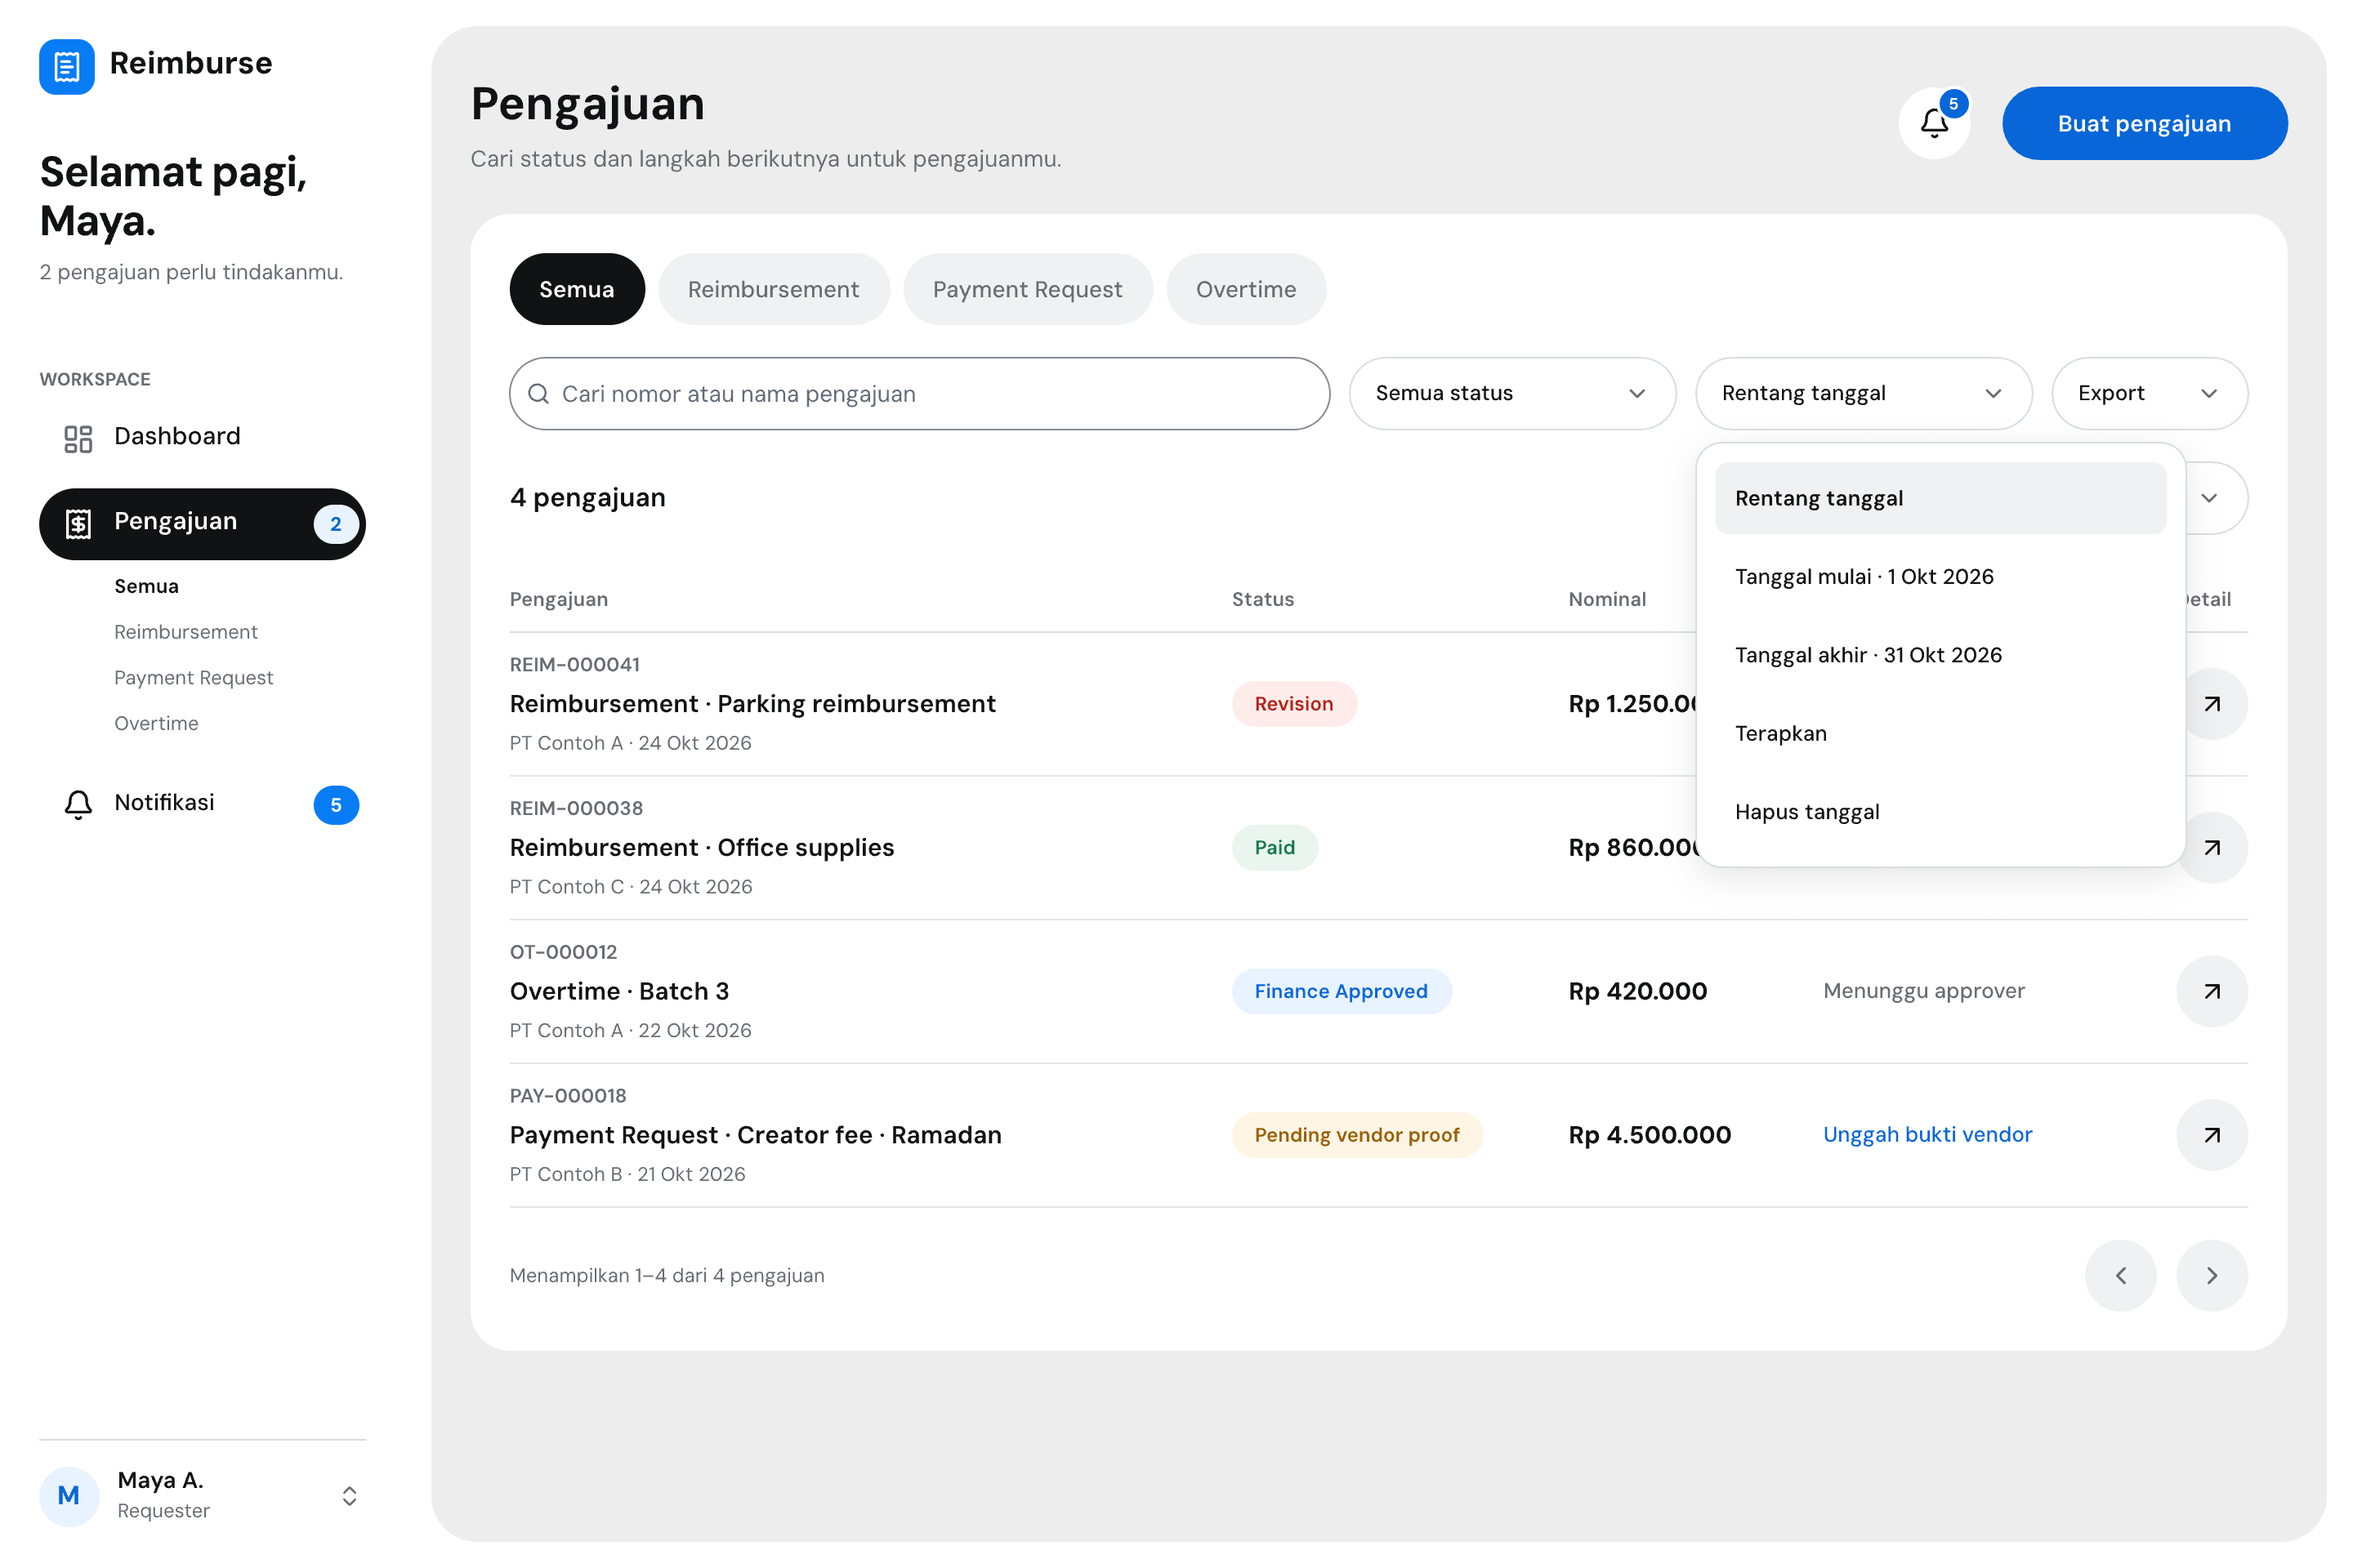
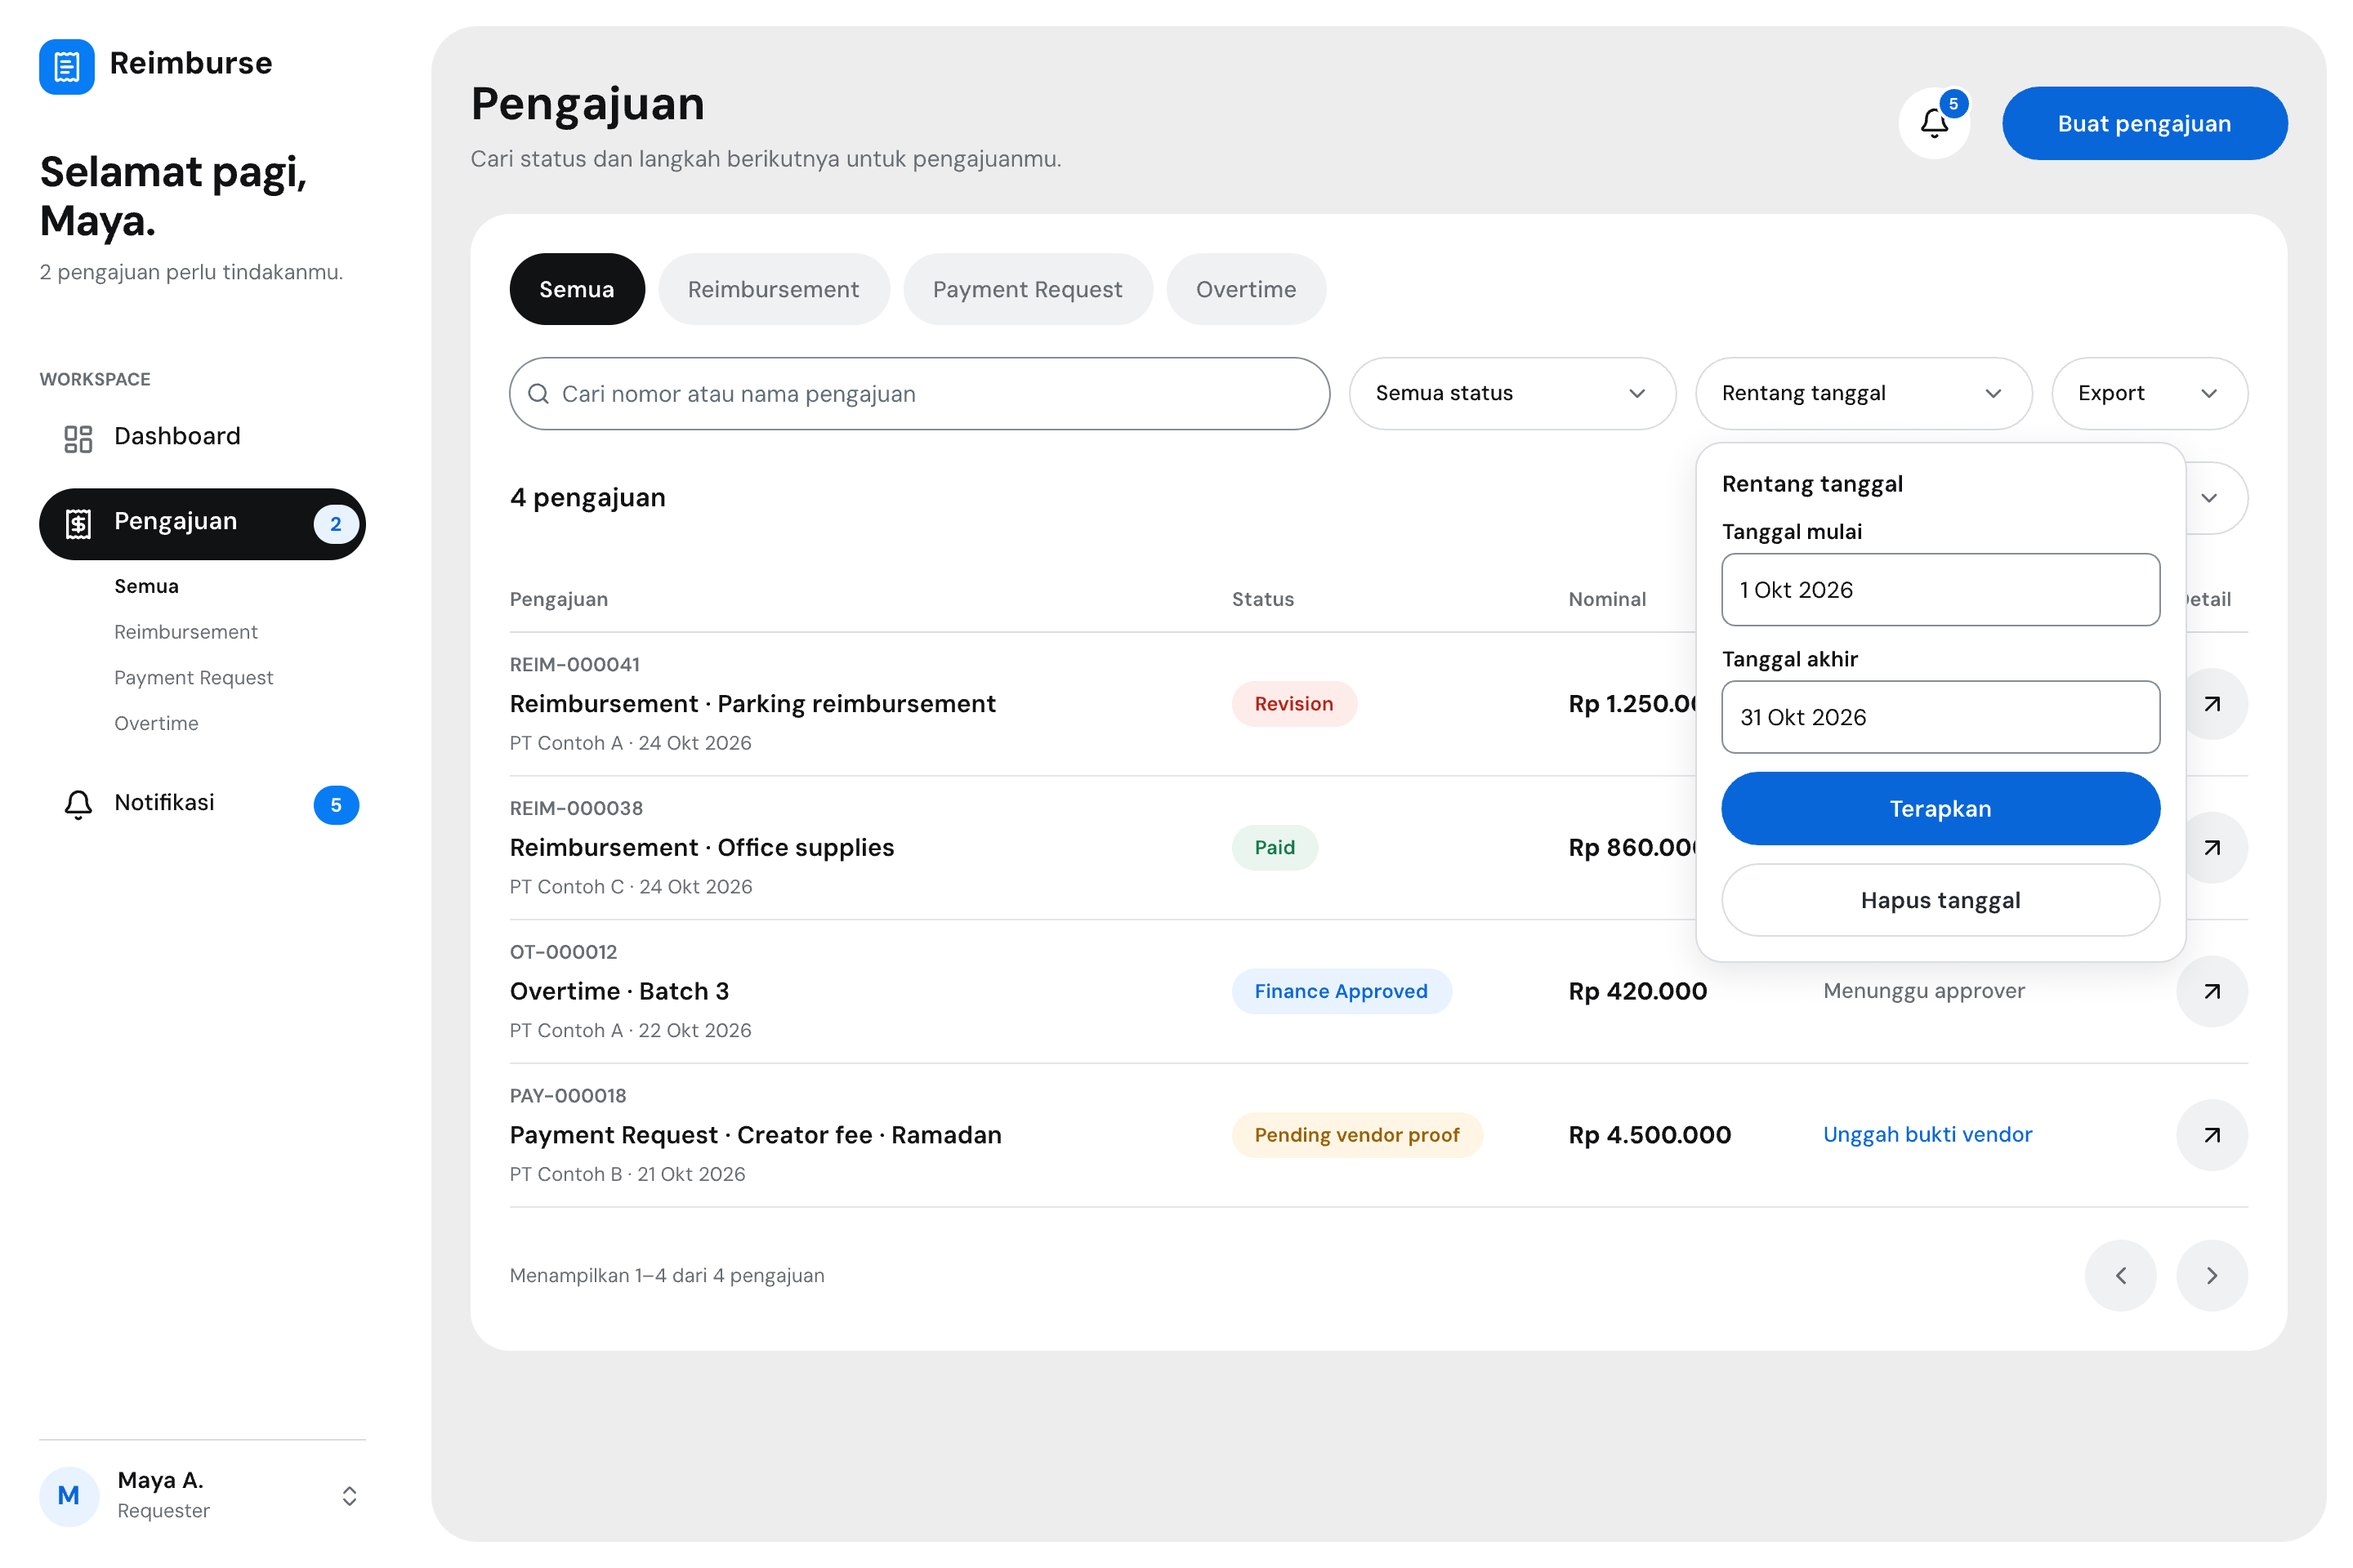
fix(design): polish PG-04 date filters export and historical service access

Changed region(s): [[0.7188, 0.2812, 0.9375, 0.5938]]

diff --git a/docs/design/screens.md b/docs/design/screens.md
@@ -60,11 +60,17 @@ Read references: legacy PG-04 Desktop `cmfPt` and Mobile `UnqY7`, still under th
 
 [Individual 2× renders and acceptance notes](../../design/png/pg04-desktop/README.md): normal `k0okVa`, filtered `i2vM8K`, no results `EyHtN`, empty `V3myh`, loading `F65id0`, error `T0RTci`, service disabled `my54M`, status menu `ORuMN`, date filter `a2cZo`, export format menu `HKI9M`, export generating `IVTFX`, export error `gFHa4`, export denied `it9Zo`. Sample disclosure is in frame names, not product UI helper text. All ten PRD workflow status tokens are visible in the status-filter specimen; Draft is not a workflow status and remains in the existing Dashboard/form flow.
 
-Presentation rationale: one list surface supports scanning rather than a card per request; metadata/status/amount/next step have stable aligned columns. Existing search/button/status sources are instanced with scoped visual overrides; the approved Requester rail is copied and its selected state changes only in the copies. Search + service/status/date filters preserve context. List export offers CSV/Excel and must apply filters, tenant/ownership and permission rules; PDF remains in existing detail/export flows, not a new PG-04 list feature. Changing service access hides Overtime from new-service navigation while retaining its existing request. No bulk decision, direct cancel, editable terminal request or sensitive profile data is introduced.
+Presentation rationale: one list surface supports scanning rather than a card per request; metadata/status/amount/next step have stable aligned columns. Existing search/button/status sources are instanced with scoped visual overrides; the approved Requester rail is copied and its selected state changes only in the copies. Search + service/status/date filters preserve context. List export offers CSV/Excel and must apply filters, tenant/ownership and permission rules; PDF remains in existing detail/export flows, not a new PG-04 list feature. Changing service access removes Overtime only from new-request choices. The Overtime service tab and sidebar list filter remain available for finding historical requests, including the existing Overtime row. No bulk decision, direct cancel, editable terminal request or sensitive profile data is introduced.
 
 Static handoff: filter/search/date/sort changes recompute results and reset pagination; no-result recovery clears search, empty recovery opens existing service picker, error retry reloads without discarding filter inputs. Detail targets existing PG-06/08/10; Revision only opens permitted fields there, vendor-proof actions only for Payment Request. Export entry routes existing PG-17 behavior; generating/failed/denied specimens only show feedback within the list, not a new export flow. Previous/next are disabled for the one-page fixture. Requester scope is own requests within the account organization; Admin queue expansion is not part of this delivery.
 
 Checks: saved JSON contains 13 fixed Desktop frames with selected Pengajuan; legacy data and all status tokens retained. Every node from merged main (including Foundations, Components, approved Desktop/Mobile and both PG-04 reference screens) is recursively identical; variables unchanged. Canvas bounds inspection reports no enabled layout problems. PNGs are 2880 × 1920. `impeccable detect --json reimburse.pen` returned `[]`; this is not a substitute for runtime/accessibility testing. Controls are visual specimens only; filters, export, keyboard, focus and authorization are not implemented by Pen. Operate mode, ENERGY 1 / RHYTHM 2 / MOTION 1; no new theme or motion effects.
+
+### Scoped PG-04 Desktop polish after shared chrome
+
+Owner-requested corrections in issue #7 / PR #8 affect only export-generating `IVTFX`, date-menu `a2cZo`, and service-disabled `my54M`. Export's disabled control is 148 × 44; `Memproses…` uses auto single-line text (measured 81 × 18), with room for the existing chevron. The date popover retains its anchor/surface and sample dates, but now instances two `jSgCJ` fields labeled `Tanggal mulai` / `Tanggal akhir`, a primary `fFmN2` `Terapkan` and secondary `WQYrQ` `Hapus tanggal`. Labels are separate from field values.
+
+In service-disabled, both the Overtime tab and shared-sidebar historical filter are visible; only this sidebar instance override changes, never the reusable source. The existing PG-02 disabled-service new-request picker still offers only Reimbursement / Payment Request. No new picker flow or Mobile work is introduced. Saved JSON assertions verify all original reusable sources/variables unchanged; other 20 screen renders (10 PG-04 + 10 Dashboard/state) are byte-identical to the shared-chrome baseline. Three affected state PNGs and two readable detail crops are refreshed in the same gallery.
 
 ### Shared chrome extraction before Mobile
 

diff --git a/design/png/pg04-desktop/README.md b/design/png/pg04-desktop/README.md
@@ -4,6 +4,14 @@ Issue #7. Branch `design/pg04-request-list`, dari merged `main` `e5f7682`. **Bel
 
 Setiap PNG diekspor 2× dari viewport 1440 × 960 menjadi **2880 × 1920**. Klik gambar/tautan untuk ukuran penuh. Semua angka, identitas, Entity, tanggal dan nominal adalah **Data contoh**, ditandai pada nama frame di canvas, bukan helper text UI.
 
+## Polish terkini untuk review
+
+- [Export Memproses… satu baris](QFvHY.png): kontrol 148 × 44, label auto satu baris, chevron tetap ada.
+- [Detail popover tanggal](ybrfg.png): field berlabel `Tanggal mulai` / `Tanggal akhir`, primary `Terapkan`, secondary `Hapus tanggal`.
+- [Layanan nonaktif](my54M.png): tab dan filter sidebar Overtime tetap terlihat untuk mencari pengajuan lama. Hanya pilihan membuat pengajuan baru yang menghilangkan Overtime; picker nonaktif yang sudah ada tetap hanya Reimbursement / Payment Request.
+
+Perubahan ini sengaja mengubah tiga state (`IVTFX`, `a2cZo`, `my54M`); 20 render lain identik dengan baseline shared-chrome. Sumber reusable/sidebar/header dan Dashboard tetap utuh.
+
 ## Normal
 [k0okVa.png](k0okVa.png)
 
@@ -37,7 +45,7 @@ Setiap PNG diekspor 2× dari viewport 1440 × 960 menjadi **2880 × 1920**. Klik
 ## Service disabled
 [my54M.png](my54M.png)
 
-<img src="my54M.png" width="1440" alt="Overtime tidak tersedia untuk pengajuan baru, pengajuan Overtime lama tetap terlihat" />
+<img src="my54M.png" width="1440" alt="Tab dan filter sidebar Overtime tetap tersedia untuk riwayat, sementara pemberitahuan menjelaskan layanan nonaktif untuk pengajuan baru" />
 
 ## Status filter open
 [ORuMN.png](ORuMN.png)
@@ -47,7 +55,7 @@ Setiap PNG diekspor 2× dari viewport 1440 × 960 menjadi **2880 × 1920**. Klik
 ## Date filter open
 [a2cZo.png](a2cZo.png)
 
-<img src="a2cZo.png" width="1440" alt="Rentang tanggal mulai/akhir, Terapkan dan Hapus tanggal" />
+<img src="a2cZo.png" width="1440" alt="Dua field terpisah berlabel Tanggal mulai dan Tanggal akhir, tombol utama Terapkan serta aksi sekunder Hapus tanggal" />
 
 ## Export menu open
 [HKI9M.png](HKI9M.png)
@@ -81,7 +89,7 @@ Sidebar dan header kini memakai sumber bersama untuk Dashboard/Pengajuan: `TFVJz
 - Enam digit pada ID sampel lama dipertahankan sebagai fixture; bukan keputusan baru mengganti format PRD.
 - `Pending vendor proof` hanya pada Payment Request. Revision ditindaklanjuti di detail/form terkait sesuai field yang dibuka; tidak ada pengubahan/cancel langsung dari daftar.
 - Draft tetap di flow Dashboard/form, bukan status workflow baru. PDF tetap di detail; daftar menawarkan CSV/Excel. Tidak mendesain ulang PG-17.
-- Requester hanya melihat pengajuannya sendiri dalam organisasi akun. Pengajuan lama tetap terlihat ketika layanan dinonaktifkan; aksi pengajuan baru harus memakai daftar layanan aktif.
+- Requester hanya melihat pengajuannya sendiri dalam organisasi akun. Pengajuan lama, tab dan filter pencarian layanan tetap tersedia ketika layanan dinonaktifkan; hanya pilihan membuat pengajuan baru yang memakai daftar layanan aktif.
 
 ## Verifikasi dan batas bukti
 - File canvas tersimpan memuat 13 frame Desktop 1440 × 960, rail Pengajuan aktif, sample disclosure di nama frame.

diff --git a/design/png/desktop-chrome/README.md b/design/png/desktop-chrome/README.md
@@ -37,6 +37,10 @@ Issue #7 / PR #8. Refactor struktur saja, bukan polish visual. Mobile belum dike
 - `design/reimburse.pen` memuat board `C5b1W`, kedua sumber reusable (`TFVJz`, `Igbr1`), dan tepat satu instance sidebar + header pada masing-masing 23 layar. Varian aktif dan state overrides diverifikasi dari JSON tersimpan, bukan hanya editor.
 - **462 instance lama di luar chrome** tetap identik beserta ID/ref/propertinya. Original primary-button instance `xaXdi` juga tetap identik. Seluruh sumber komponen lama, variabel dan referensi PG-04 Mobile tidak berubah.
 - Render final setelah Save juga **23/23 byte-identik** terhadap render sebelum ekstraksi; bounds inspection tidak menemukan masalah layout aktif.
[2 lines of base64/hex data omitted]
+
+## Polish PG-04 berikutnya
+
+Koreksi owner berikutnya hanya mengubah state Export generating, date popover dan service-disabled. Klaim 23/23 identik di atas khusus ekstraksi shared-chrome, bukan larangan atas tiga koreksi yang diminta. Sumber chrome tidak berubah; **20 render yang tidak ditargetkan tetap byte-identik**, termasuk seluruh 10 Dashboard/state. Lihat `latest_pg04_polish` pada [report](regression.json) dan [galeri terbaru](../pg04-desktop/README.md).
 
 Penataan posisi frame serta dua label area lokal yang ada sebelum tugas dipertahankan. Tidak ada perubahan business rule, Foundation variables, tema, viewport atau Mobile. Ini bukti render statis, bukan verifikasi runtime/keyboard/screen reader.
